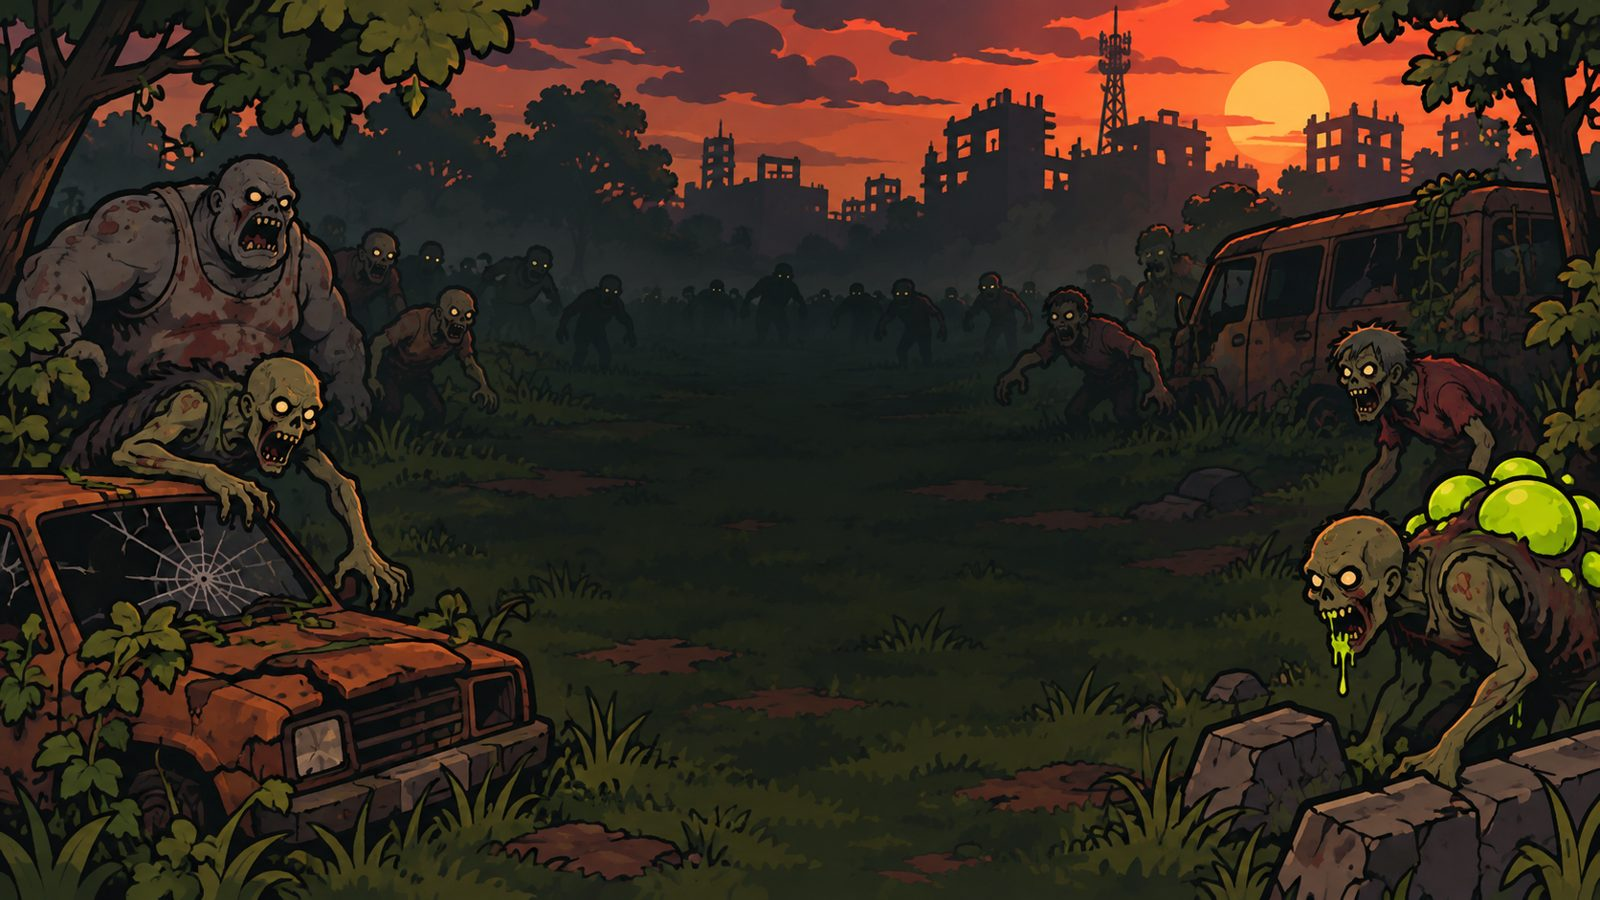
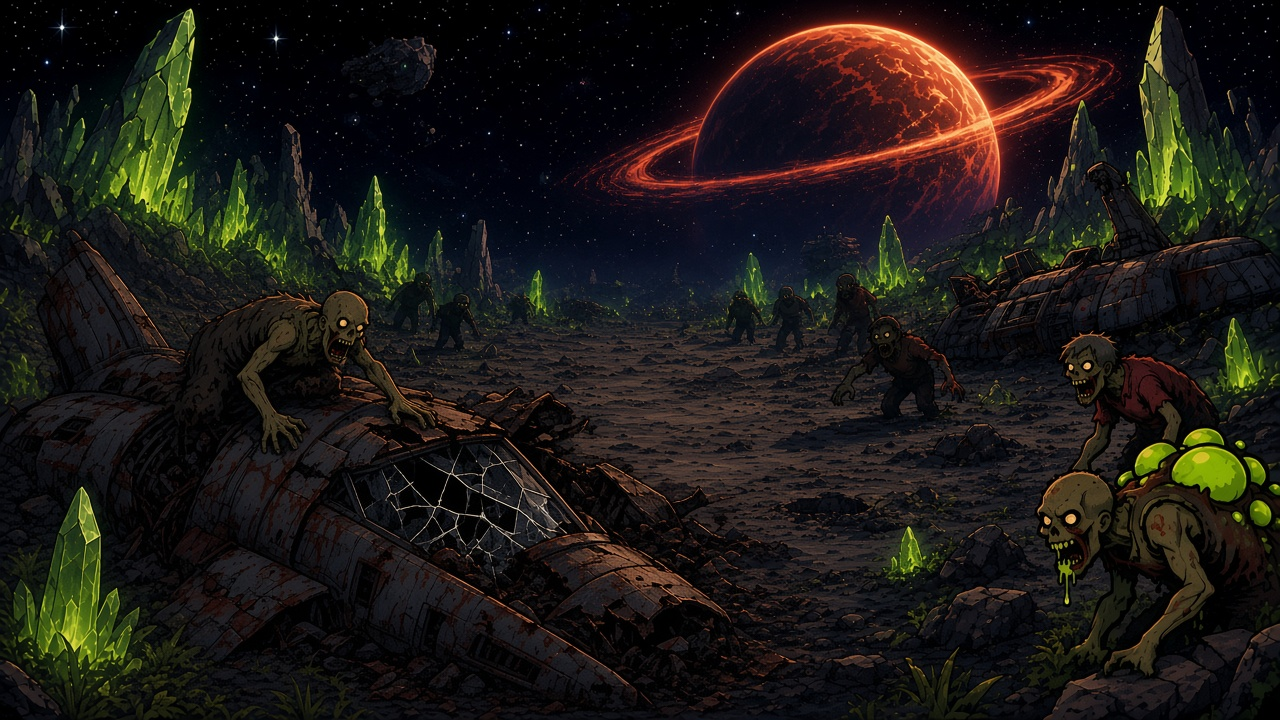
heartbeat 30 sec

diff --git a/frontend/src/pixi-app/App.ts b/frontend/src/pixi-app/App.ts
@@ -49,6 +49,7 @@ export class App {
     private spectating = false;
     private pendingName:string | null = null;
     private nameSentForSocket:string | null = null;
+    private heartbeatTimer:ReturnType<typeof setInterval> | null = null;
     private destroyed = false;
 
     constructor($domEl:HTMLElement) {
@@ -109,6 +110,7 @@ export class App {
                 this.socket?.disconnect();
                 return;
             }
+            this.startHeartbeat();
             await this.loadGame(roomId);
             if (this.destroyed) {
                 return;
@@ -116,6 +118,8 @@ export class App {
             // Игрок уже в комнате — сразу шлём имя из localStorage / лобби
             await this.flushPlayerName();
         });
+
+        this.socket.on("disconnect", () => this.stopHeartbeat());
 
         this.socket.connect();
         this.isInitialized = true;
@@ -451,8 +455,24 @@ export class App {
         return this.pixiApp?.canvas as HTMLCanvasElement;
     }
 
+    // Сервер рвёт сокет, если тишина дольше 30с
+    private startHeartbeat() {
+        this.stopHeartbeat();
+        const beat = () => this.socket?.emit("heartbeat");
+        beat();
+        this.heartbeatTimer = setInterval(beat, 3000);
+    }
+
+    private stopHeartbeat() {
+        if (this.heartbeatTimer) {
+            clearInterval(this.heartbeatTimer);
+            this.heartbeatTimer = null;
+        }
+    }
+
     destroy() {
         this.destroyed = true;
+        this.stopHeartbeat();
         this.control?.destroy();
         this.control = null;
         if (this.socket) {

diff --git a/backend/appSocketServer.ts b/backend/appSocketServer.ts
@@ -45,8 +45,27 @@ export class AppSocketServer {
         }
     }
 
+    // Клиент шлёт heartbeat каждые 3с. Тишина дольше 30с — рвём сокет.
+    private watchHeartbeat(socket:Socket):void {
+        const limitMs = 30000;
+        let timer:NodeJS.Timeout | undefined;
+        const arm = () => {
+            if (timer) clearTimeout(timer);
+            timer = setTimeout(() => {
+                console.log("Heartbeat lost ", socket.id);
+                socket.disconnect(true);
+            }, limitMs);
+        };
+        socket.on("heartbeat", arm);
+        socket.on("disconnect", () => {
+            if (timer) clearTimeout(timer);
+        });
+        arm();
+    }
+
     private handleGameConnection(socket:Socket, roomId:string, roomScene:any):void {
         socket.join(roomId);
+        this.watchHeartbeat(socket);
 
         if (!roomScene.isJoinable()) {
             roomScene.addSpectator(socket.id);
